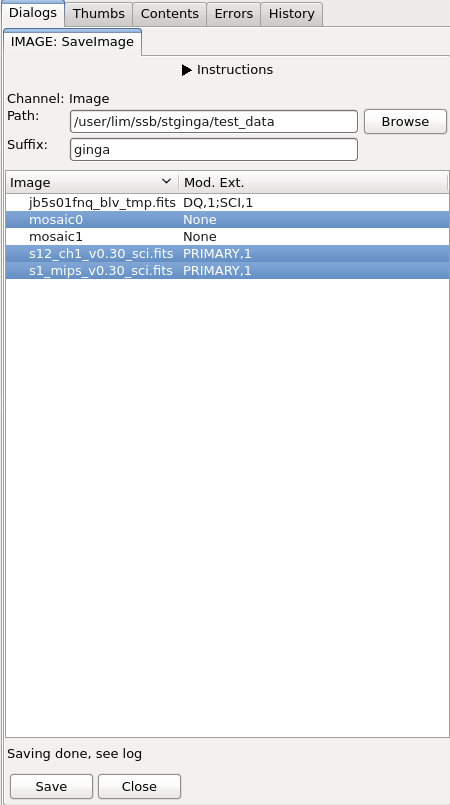
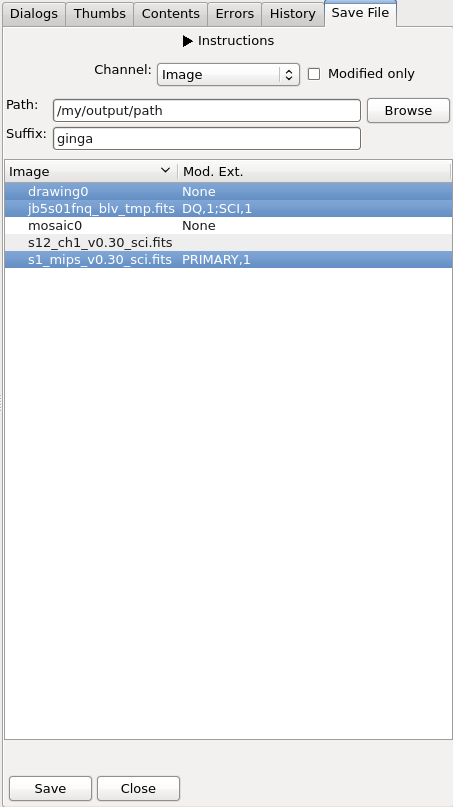
Added option to also include channel name in the suffix and updated relevant doc. Added a reminder to move SaveImage to File menu when the capability is added. Updated screenshot. Rearranged GUI a little. Fixed Sphinx warning. TVMask doc now links to SaveImage page properly. Fixed some methods not g

diff --git a/ginga/misc/plugins/SaveImage.py b/ginga/misc/plugins/SaveImage.py
@@ -14,8 +14,13 @@ from astropy.io import fits
 # GINGA
 from ginga.GingaPlugin import GlobalPlugin
 from ginga.gw import Widgets
-from ginga.gw.GwHelp import DirectorySelection
 from ginga.misc import Bunch
+from ginga.util.iohelper import shorten_name
+
+try:
+    from ginga.gw.GwHelp import DirectorySelection
+except ImportError:  # This is needed for RTD to build
+    pass
 
 __all__ = []
 
@@ -42,6 +47,7 @@ class SaveImage(GlobalPlugin):
         self.settings = prefs.createCategory('plugin_SaveImage')
         self.settings.addDefaults(output_directory = '.',
                                   output_suffix = 'ginga',
+                                  include_chname = True,
                                   clobber = False,
                                   modified_only = True,
                                   max_mosaic_size = 1e8,
@@ -78,16 +84,25 @@ class SaveImage(GlobalPlugin):
         fr.set_widget(tw)
         container.add_widget(fr, stretch=0)
 
-        captions = (('Channel:', 'label', 'Channel Name', 'combobox'),
-                    ('Path:', 'label', 'OutDir', 'entry'),
-                    ('Browse', 'button'),
-                    ('Suffix:', 'label', 'Suffix', 'entry'),
-                    ('Modified only', 'checkbutton'))
+        captions = (('Channel:', 'label', 'Channel Name', 'combobox',
+                     'Modified only', 'checkbutton'), )
         w, b = Widgets.build_info(captions, orientation=orientation)
         self.w.update(b)
 
         b.channel_name.set_tooltip('Channel for locating images to save')
         b.channel_name.add_callback('activated', self.select_channel_cb)
+
+        mod_only = self.settings.get('modified_only', True)
+        b.modified_only.set_state(mod_only)
+        b.modified_only.add_callback('activated', lambda *args: self.redo())
+        b.modified_only.set_tooltip("Show only locally modified images")
+
+        container.add_widget(w, stretch=0)
+
+        captions = (('Path:', 'llabel', 'OutDir', 'entry', 'Browse', 'button'),
+                    ('Suffix:', 'llabel', 'Suffix', 'entry'))
+        w, b = Widgets.build_info(captions, orientation=orientation)
+        self.w.update(b)
 
         b.outdir.set_text(self.outdir)
         b.outdir.set_tooltip('Output directory')
@@ -99,12 +114,6 @@ class SaveImage(GlobalPlugin):
         b.suffix.set_text(self.suffix)
         b.suffix.set_tooltip('Suffix to append to filename')
         b.suffix.add_callback('activated', lambda w: self.set_suffix())
-
-        mod_only = self.settings.get('modified_only', True)
-        b.modified_only.set_state(mod_only)
-        b.modified_only.add_callback('activated',
-                                            lambda *args: self.redo())
-        b.modified_only.set_tooltip("Show only locally modified images")
 
         container.add_widget(w, stretch=0)
 
@@ -169,14 +178,14 @@ Output image will have the filename of <inputname>_<suffix>.fits.""")
 
         # Only list modified images for saving. Scanning Datasrc is enough.
         if mod_only:
-            func = self.keys_from_datasrc
+            all_keys = channel.datasrc.sortedkeys
 
         # List all images in the channel.
         else:
-            func = channel.get_image_names
+            all_keys = channel.get_image_names()
 
         # Extract info for listing and saving
-        for key in func():
+        for key in all_keys:
             iminfo = channel.get_image_info(key)
             path = iminfo.get('path')
             idx = iminfo.get('idx')
@@ -272,12 +281,6 @@ Output image will have the filename of <inputname>_<suffix>.fits.""")
         self.logger.debug("channel name changed to '%s'" % (self.chname))
         self.redo()
 
-    def keys_from_datasrc(self):
-        """Yield back keys for image listing from Ginga's data cache."""
-        channel = self.fv.get_channelInfo(self.chname)
-        for key in channel.datasrc.sortedkeys:
-            yield key
-
     def _format_extname(self, ext):
         """Pretty print given extension name and number tuple."""
         if ext is None:
@@ -315,7 +318,7 @@ Output image will have the filename of <inputname>_<suffix>.fits.""")
         if self.history_obj is None:
             return
 
-        channel = self.fv.get_channelInfo()
+        channel = self.fv.get_channelInfo(self.chname)
         if channel is None:
             return
         file_dict = self.history_obj.name_dict[channel.name]
@@ -366,7 +369,7 @@ Output image will have the filename of <inputname>_<suffix>.fits.""")
 
         """
         maxsize = self.settings.get('max_mosaic_size', 1e8)  # Default 10k x 10k
-        channel = self.fv.get_channelInfo()
+        channel = self.fv.get_channelInfo(self.chname)
         image = channel.datasrc[key]
 
         # Prevent writing very large mosaic
@@ -388,7 +391,7 @@ Output image will have the filename of <inputname>_<suffix>.fits.""")
 
     def _write_mef(self, key, extlist, outfile):
         """Write out regular multi-extension FITS data."""
-        channel = self.fv.get_channelInfo()
+        channel = self.fv.get_channelInfo(self.chname)
         with fits.open(outfile, mode='update') as pf:
             # Process each modified data extension
             for idx in extlist:
@@ -426,6 +429,11 @@ Output image will have the filename of <inputname>_<suffix>.fits.""")
         else:
             sfx = ''
 
+        # Also include channel name in suffix. This is useful if user likes to
+        # open the same image in multiple channels.
+        if self.settings.get('include_chname', True):
+            sfx += '_' + self.chname
+
         # Process each selected file. Each can have multiple edited extensions.
         for infile in res_dict:
             f_pfx = os.path.splitext(infile)[0]  # prefix
@@ -433,9 +441,11 @@ Output image will have the filename of <inputname>_<suffix>.fits.""")
             oname = f_pfx + sfx + f_ext
             outfile = os.path.join(self.outdir, oname)
 
-            s = 'Writing out {0} to {1} ...'.format(infile, oname)
-            self.w.status.set_text(s)
-            self.logger.debug(s)
+            self.w.status.set_text(
+                'Writing out {0} to {1} ...'.format(shorten_name(infile, 10),
+                                                    shorten_name(oname, 10)))
+            self.logger.debug(
+                'Writing out {0} to {1} ...'.format(infile, oname))
 
             if os.path.exists(outfile) and not clobber:
                 self.logger.error('{0} already exists'.format(outfile))

diff --git a/ginga/main.py b/ginga/main.py
@@ -81,6 +81,7 @@ global_plugins = [
     Bunch(module='Operations', tab='_opns', ws='operations', start=True),
     Bunch(module='WBrowser', tab='Help', ws='channels', raisekey='?', start=False),
     Bunch(module='FBrowser', tab='Open File', ws='right', start=False),
+    # TODO: Move SaveImage to File menu.
     Bunch(module='SaveImage', tab='Save File', ws='right', start=False),
     Bunch(module='Errors', tab='Errors', ws='right', start=True),
     Bunch(module='RC', tab='RC', ws='right', start=False),

diff --git a/doc/manual/plugins_global/saveimage.rst b/doc/manual/plugins_global/saveimage.rst
@@ -19,8 +19,11 @@ images. For example, a mosaic image that was created by
 multiple extensions) are supported.
 
 Given the output directory (e.g., ``/mypath/outputs/``), a suffix
-(e.g., ``ginga``), and a selected image (e.g., ``image1.fits``), the output
-file will be ``/mypath/outputs/image1_ginga.fits``. The modified extension(s)
+(e.g., ``ginga``), an image channel (``Image``), and a selected image
+(e.g., ``image1.fits``), the output file will be
+``/mypath/outputs/image1_ginga_Image.fits``. Inclusion of the channel name is
+optional and can be omitted using plugin configuration file (see below).
+The modified extension(s)
 will have new header or data extracted from Ginga, while those not modified will
 remain untouched. Relevant change log entries from
 :ref:`sec-plugins-changehistory` global plugin will be inserted into the

diff --git a/doc/manual/plugins_local/tvmask.rst b/doc/manual/plugins_local/tvmask.rst
@@ -44,8 +44,8 @@ appear in the latter.
 
 To create a mask that this plugin can read, one can use results from
 :ref:`plugins-drawing` (press "Create Mask" after drawing and save the
-mask using ``SaveImage``), in addition to creating a FITS file
-by hand using :ref:`Astropy FITS <astropy:astropy-io-fits>`, etc.
+mask using :ref:`sec-plugins-global-saveimage`), in addition to creating a FITS
+file by hand using :ref:`Astropy FITS <astropy:astropy-io-fits>`, etc.
 
 Used together with :ref:`local-plugin-tvmark`, you can overlay both point
 sources and masked regions in Ginga.
